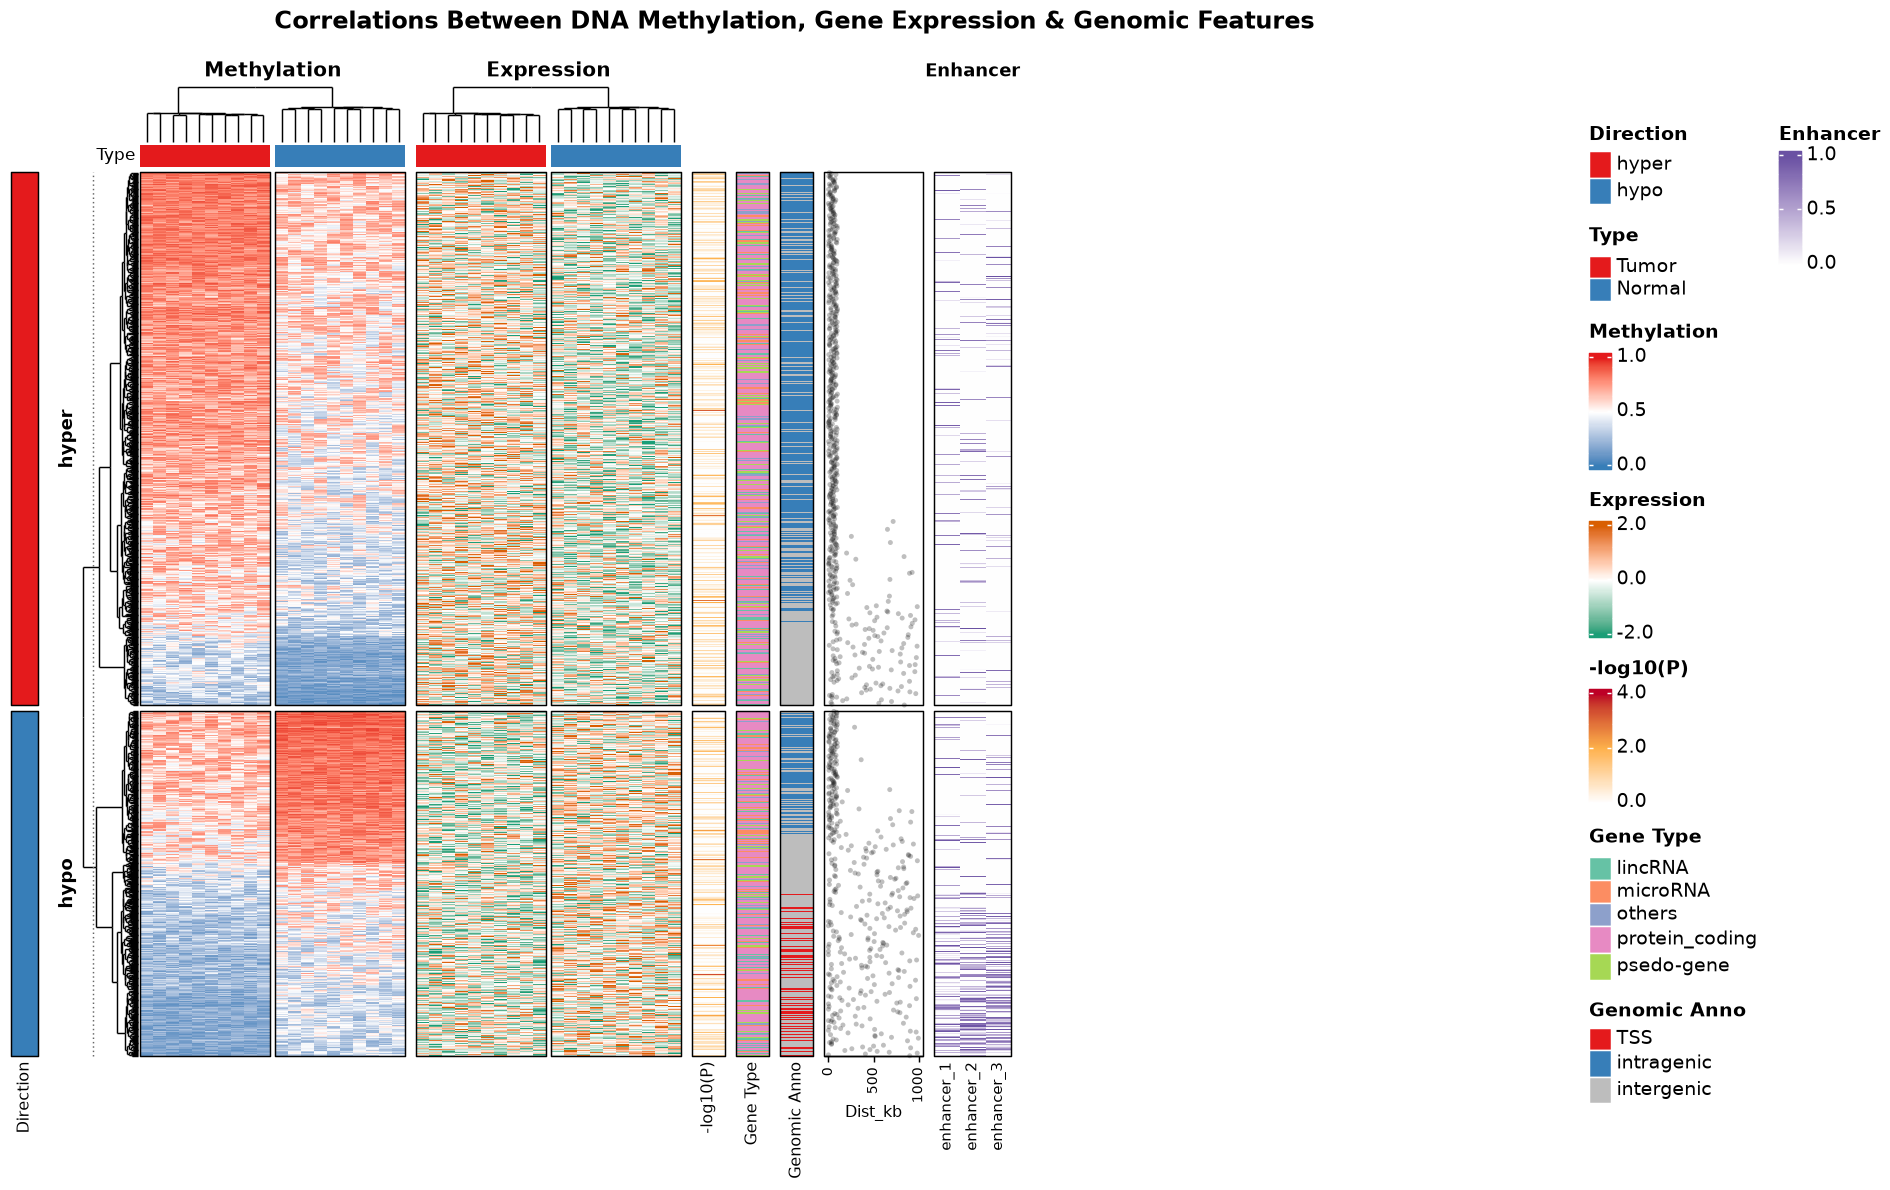
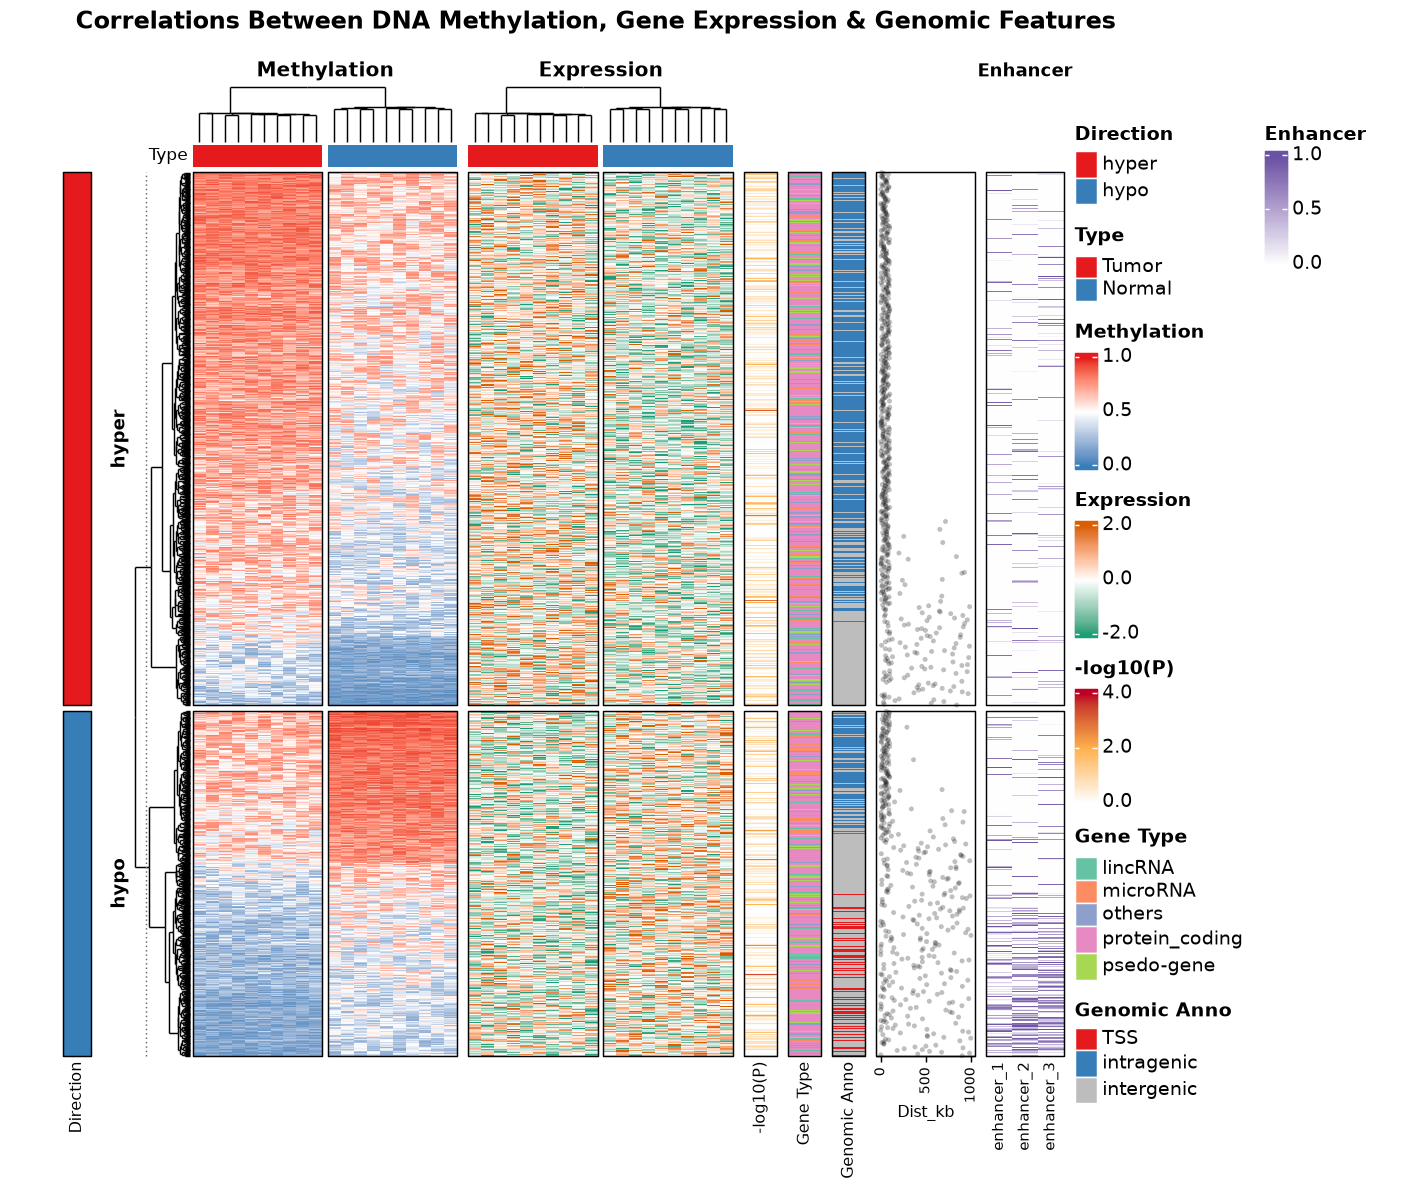
Release v0.2.3: eliminate blank gap before legends in fixed-size HeatmapLists

diff --git a/src/complexheatmap/heatmap_list.py b/src/complexheatmap/heatmap_list.py
@@ -43,6 +43,7 @@ from .heatmap import (
 from .legend import Legends, packLegend
 from .units import (
     Unit,
+    _MM_PER_INCH,
     as_unit,
     check_gp,
     convertHeight,
@@ -975,6 +976,8 @@ class HeatmapList(AdditiveUnit):
                     if ann is not None:
                         e_l = max(e_l, float(ann.extended.to_mm("x")[1]))
                 ext_left = max(0.0, e_l - left_used)
+            elif isinstance(first_item, HeatmapAnnotation):
+                ext_left = float(first_item.extended.to_mm("x")[1])
             last_item = self.ht_list[-1]
             if isinstance(last_item, Heatmap):
                 right_used = sum(convertWidth(last_item.layout["layout_size"][f"{c}_width"], "mm", valueOnly=True) for c in ("row_title_right", "row_dend_right", "row_names_right", "row_anno_right"))
@@ -983,6 +986,8 @@ class HeatmapList(AdditiveUnit):
                     if ann is not None:
                         e_r = max(e_r, float(ann.extended.to_mm("x")[3]))
                 ext_right = max(0.0, e_r - right_used)
+            elif isinstance(last_item, HeatmapAnnotation):
+                ext_right = float(last_item.extended.to_mm("x")[3])
             self.layout["heatmap_list_padding"] = [pad_bot, ext_left, pad_top, ext_right]
 
             # Auto-expand interior ht_gap so extended column-annotation labels/axes do not collide with neighbors
@@ -1106,6 +1111,8 @@ class HeatmapList(AdditiveUnit):
                     if ann is not None:
                         e_t = max(e_t, float(ann.extended.to_mm("x")[2]))
                 pad_top = max(0.0, e_t - top_used)
+            elif isinstance(first_item, HeatmapAnnotation):
+                pad_top = float(first_item.extended.to_mm("x")[2])
             last_item = self.ht_list[-1]
             if isinstance(last_item, Heatmap):
                 bot_used = sum(convertHeight(last_item.layout["layout_size"][f"{c}_height"], "mm", valueOnly=True) for c in ("column_title_bottom", "column_dend_bottom", "column_names_bottom", "column_anno_bottom"))
@@ -1114,6 +1121,8 @@ class HeatmapList(AdditiveUnit):
                     if ann is not None:
                         e_b = max(e_b, float(ann.extended.to_mm("x")[0]))
                 pad_bot = max(0.0, e_b - bot_used)
+            elif isinstance(last_item, HeatmapAnnotation):
+                pad_bot = float(last_item.extended.to_mm("x")[0])
             self.layout["heatmap_list_padding"] = [pad_bot, pad_left, pad_top, pad_right]
 
             # Auto-expand interior ht_gap so extended row-annotation labels/axes do not collide with vertical neighbors
@@ -1194,18 +1203,13 @@ class HeatmapList(AdditiveUnit):
                     item_fixed_w.append(w_mm)
                     fixed_total += w_mm
                 else:
-                    if is_abs_unit(item.heatmap_param["width"]):
-                        w_mm = convertWidth(item.heatmap_param["width"], "mm", valueOnly=True)
-                        item_fixed_w.append(w_mm)
-                        fixed_total += w_mm
-                    elif is_abs_unit(item.matrix_param["width"]):
-                        ws = item.component_widths_mm()
+                    ws = item.component_widths_mm()
+                    if ws[4] is not None:
                         w_mm = sum(x or 0.0 for x in ws)
                         item_fixed_w.append(w_mm)
                         fixed_total += w_mm
                     else:
                         # Flexible body: track fixed non-body components + weight for body
-                        ws = item.component_widths_mm()
                         fixed_non_body = sum(x or 0.0 for x in ws)
                         fixed_total += fixed_non_body
                         item_fixed_w.append(None)
@@ -1237,17 +1241,12 @@ class HeatmapList(AdditiveUnit):
                 item_fixed_h.append(h_mm)
                 fixed_total += h_mm
             else:
-                if is_abs_unit(item.heatmap_param["height"]):
-                    h_mm = convertHeight(item.heatmap_param["height"], "mm", valueOnly=True)
-                    item_fixed_h.append(h_mm)
-                    fixed_total += h_mm
-                elif is_abs_unit(item.matrix_param["height"]):
-                    hs = item.component_heights_mm()
+                hs = item.component_heights_mm()
+                if hs[4] is not None:
                     h_mm = sum(x or 0.0 for x in hs)
                     item_fixed_h.append(h_mm)
                     fixed_total += h_mm
                 else:
-                    hs = item.component_heights_mm()
                     fixed_non_body = sum(x or 0.0 for x in hs)
                     fixed_total += fixed_non_body
                     item_fixed_h.append(None)
@@ -1268,6 +1267,68 @@ class HeatmapList(AdditiveUnit):
                 body_h = rem * (wt / tot_wt) if tot_wt > 0 else 0.0
                 out_h.append(fixed_non_body + body_h)
         return out_h
+
+    def _fixed_heatmap_list_width_mm(self) -> float | None:
+        if not self.ht_list:
+            return None
+        hl_pad = self.layout["heatmap_list_padding"]
+        gaps_mm = self.ht_list_param["ht_gap"].to_mm("x")
+        if self.direction == "horizontal":
+            total_w = 0.0
+            for item in self.ht_list:
+                if isinstance(item, HeatmapAnnotation):
+                    total_w += convertWidth(item.width, "mm", valueOnly=True)
+                else:
+                    ws = item.component_widths_mm()
+                    if ws[4] is None:
+                        return None
+                    total_w += sum(x or 0.0 for x in ws)
+            total_gap = sum(float(gaps_mm[i]) for i in range(max(0, len(self.ht_list) - 1)))
+            return (total_w + total_gap + hl_pad[1] + hl_pad[3]) if (total_w + total_gap) > 0.0 else None
+
+        has_hm = False
+        max_w = 0.0
+        for item in self.ht_list:
+            if isinstance(item, Heatmap):
+                has_hm = True
+                ws = item.component_widths_mm()
+                if ws[4] is None:
+                    return None
+                max_w = max(max_w, sum(x or 0.0 for x in ws))
+            elif is_abs_unit(item.width):
+                max_w = max(max_w, convertWidth(item.width, "mm", valueOnly=True))
+        return (max_w + hl_pad[1] + hl_pad[3]) if (has_hm and max_w > 0.0) else None
+
+    def _fixed_heatmap_list_height_mm(self) -> float | None:
+        if not self.ht_list:
+            return None
+        hl_pad = self.layout["heatmap_list_padding"]
+        gaps_mm = self.ht_list_param["ht_gap"].to_mm("x")
+        if self.direction == "vertical":
+            total_h = 0.0
+            for item in self.ht_list:
+                if isinstance(item, HeatmapAnnotation):
+                    total_h += convertHeight(item.height, "mm", valueOnly=True)
+                else:
+                    hs = item.component_heights_mm()
+                    if hs[4] is None:
+                        return None
+                    total_h += sum(x or 0.0 for x in hs)
+            total_gap = sum(float(gaps_mm[i]) for i in range(max(0, len(self.ht_list) - 1)))
+            return (total_h + total_gap + hl_pad[0] + hl_pad[2]) if (total_h + total_gap) > 0.0 else None
+
+        has_hm = False
+        max_h = 0.0
+        for item in self.ht_list:
+            if isinstance(item, Heatmap):
+                has_hm = True
+                hs = item.component_heights_mm()
+                if hs[4] is None:
+                    return None
+                max_h = max(max_h, sum(x or 0.0 for x in hs))
+            elif is_abs_unit(item.height):
+                max_h = max(max_h, convertHeight(item.height, "mm", valueOnly=True))
+        return (max_h + hl_pad[0] + hl_pad[2]) if (has_hm and max_h > 0.0) else None
 
     def _draw_standalone_annotation(self, anno: HeatmapAnnotation, body_start_mm: float, body_len_mm: float) -> None:
         i_main = self.ht_list_param["main_heatmap"]
@@ -1342,42 +1403,55 @@ class HeatmapList(AdditiveUnit):
         prepared = self.make_layout(padding=padding, page_size_mm=(page_w_mm, page_h_mm), **layout_kwargs)
         prepared._device = dev
 
+        pad_mm = _normalize_padding(prepared.ht_list_param["padding"])  # [bottom, left, top, right]
+        ls = prepared.layout["layout_size"]
+        hl_pad = prepared.layout["heatmap_list_padding"]
+
+        col_fixed = [
+            convertWidth(ls[f"{c}_width"], "mm", valueOnly=True) if c != "heatmap_list" else None
+            for c in HEATMAP_LIST_ROW_COMPONENTS
+        ]
+        row_fixed = [
+            convertHeight(ls[f"{r}_height"], "mm", valueOnly=True) if r != "heatmap_list" else None
+            for r in HEATMAP_LIST_COLUMN_COMPONENTS
+        ]
+        outer_fixed_w = sum(v for v in col_fixed if v is not None)
+        outer_fixed_h = sum(v for v in row_fixed if v is not None)
+        fixed_hl_w = prepared._fixed_heatmap_list_width_mm()
+        fixed_hl_h = prepared._fixed_heatmap_list_height_mm()
+
+        if newpage and ax is None and fig is None:
+            need_w_mm = (fixed_hl_w + outer_fixed_w + pad_mm[1] + pad_mm[3]) if (width is None and fixed_hl_w is not None) else 0.0
+            need_h_mm = (fixed_hl_h + outer_fixed_h + pad_mm[0] + pad_mm[2]) if (height is None and fixed_hl_h is not None) else 0.0
+            if need_w_mm > page_w_mm + 1e-6 or need_h_mm > page_h_mm + 1e-6:
+                dev.resize(max(page_w_mm, need_w_mm) / _MM_PER_INCH, max(page_h_mm, need_h_mm) / _MM_PER_INCH)
+                page_w_mm = dev.width_mm
+                page_h_mm = dev.height_mm
+
         # Fill canvas background
         if background and str(background).lower() != "transparent":
             grid_rect(gp=gpar(fill=background, col=None))
 
-        pad_mm = _normalize_padding(prepared.ht_list_param["padding"])  # [bottom, left, top, right]
         global_w_mm = max(10.0, page_w_mm - pad_mm[1] - pad_mm[3])
         global_h_mm = max(10.0, page_h_mm - pad_mm[0] - pad_mm[2])
+        hl_w_mm = fixed_hl_w if fixed_hl_w is not None else max(10.0, global_w_mm - outer_fixed_w)
+        hl_h_mm = fixed_hl_h if fixed_hl_h is not None else max(10.0, global_h_mm - outer_fixed_h)
+        final_cols = [hl_w_mm if v is None else v for v in col_fixed]
+        final_rows = [hl_h_mm if v is None else v for v in row_fixed]
+        total_cols_w = max(10.0, sum(final_cols))
+        total_rows_h = max(10.0, sum(final_rows))
 
         pushViewport(
             Viewport(
                 name="global",
-                x=unit(pad_mm[1], "mm"),
-                y=unit(pad_mm[0], "mm"),
-                width=unit(global_w_mm, "mm"),
-                height=unit(global_h_mm, "mm"),
+                x=unit(pad_mm[1] + 0.5 * (global_w_mm - total_cols_w), "mm"),
+                y=unit(pad_mm[0] + 0.5 * (global_h_mm - total_rows_h), "mm"),
+                width=unit(total_cols_w, "mm"),
+                height=unit(total_rows_h, "mm"),
                 just=("left", "bottom"),
             )
         )
         try:
-            ls = prepared.layout["layout_size"]
-            hl_pad = prepared.layout["heatmap_list_padding"]
-
-            # 7 outer column widths (left -> right) and 7 outer row heights (top -> bottom)
-            col_fixed = [
-                convertWidth(ls[f"{c}_width"], "mm", valueOnly=True) if c != "heatmap_list" else None
-                for c in HEATMAP_LIST_ROW_COMPONENTS
-            ]
-            row_fixed = [
-                convertHeight(ls[f"{r}_height"], "mm", valueOnly=True) if r != "heatmap_list" else None
-                for r in HEATMAP_LIST_COLUMN_COMPONENTS
-            ]
-
-            hl_w_mm = max(10.0, global_w_mm - sum(v for v in col_fixed if v is not None))
-            hl_h_mm = max(10.0, global_h_mm - sum(v for v in row_fixed if v is not None))
-            final_cols = [hl_w_mm if v is None else v for v in col_fixed]
-            final_rows = [hl_h_mm if v is None else v for v in row_fixed]
 
             x_cols = [0.0] * 7
             cx = 0.0
@@ -1473,10 +1547,17 @@ class HeatmapList(AdditiveUnit):
                 try:
                     ct_gp = prepared.column_title_param["gp"]
                     pad_c = _title_padding_unit(ct_gp)
-                    if ct_side == "top":
-                        grid_text(prepared.column_title[0], x=unit(0.5, "npc"), y=pad_c[0], just="bottom", gp=ct_gp)
+                    ct_w_mm = convertWidth(max_text_width(prepared.column_title[0], gp=ct_gp), "mm", valueOnly=True)
+                    cx_title = x_cols[3] + 0.5 * final_cols[3]
+                    if ct_w_mm <= total_cols_w:
+                        cx_title = min(max(cx_title, 0.5 * ct_w_mm), total_cols_w - 0.5 * ct_w_mm)
                     else:
-                        grid_text(prepared.column_title[0], x=unit(0.5, "npc"), y=unit(1, "npc") - pad_c[0], just="top", gp=ct_gp)
+                        cx_title = 0.5 * total_cols_w
+                    x_title_u = unit(cx_title - x_cols[3], "mm")
+                    if ct_side == "top":
+                        grid_text(prepared.column_title[0], x=x_title_u, y=pad_c[0], just="bottom", gp=ct_gp)
+                    else:
+                        grid_text(prepared.column_title[0], x=x_title_u, y=unit(1, "npc") - pad_c[0], just="top", gp=ct_gp)
                 finally:
                     popViewport()
 

diff --git a/tests/test_v02_improvements_and_visuals.py b/tests/test_v02_improvements_and_visuals.py
@@ -412,3 +412,48 @@ def test_raster_zorder_meth_dataset_oncoprint_subset_and_heatmap3d():
     res_h3 = draw(h3, width=6.0, height=4.5, dpi=80)
     assert len(res_h3._device.ax.collections) > 0
     plt.close("all")
+
+
+def test_fixed_width_heatmap_list_no_blank_gap_before_legend():
+    rng = np.random.default_rng(7)
+    m1 = pd.DataFrame(rng.standard_normal((12, 6)), index=[f"g{i}" for i in range(12)])
+    m2 = pd.DataFrame(rng.standard_normal((12, 6)), index=[f"g{i}" for i in range(12)])
+    h1 = Heatmap(m1, name="H1", width=unit(25, "mm"), cluster_columns=False, show_row_names=False)
+    h2 = Heatmap(m2, name="H2", width=unit(25, "mm"), cluster_columns=False, show_row_names=False)
+    ra = ch.rowAnnotation(
+        mark=ch.anno_mark(at=[1, 6, 10], labels=["GeneA", "GeneB", "GeneC"], link_width=unit(5, "mm")),
+        show_annotation_name=False,
+    )
+    res = draw(h1 + h2 + ra, width=12.0, height=5.0, dpi=100, merge_legends=True)
+    dev = res._device
+
+    seekViewport("global")
+    vp_glob = ch.current_viewport()
+    # Global viewport must be shrunk to fixed list + legend width and centered on 12in (304.8mm) canvas
+    assert vp_glob.w_mm < 220.0
+    assert vp_glob.x0_mm == pytest.approx(0.5 * (dev.w_mm - vp_glob.w_mm), abs=1.0)
+
+    # Gap between trailing anno_mark viewport right edge and leftmost legend title ("H1") must be tight (< 15 mm)
+    seekViewport("annotation_mark_1")
+    vp_mark = ch.current_viewport()
+    mark_right_mm = vp_mark.x0_mm + vp_mark.w_mm
+    dev.fig.canvas.draw()
+    renderer = dev.fig.canvas.get_renderer()
+    inv_trans = dev.ax.transData.inverted()
+    leg_left_candidates = []
+    for txt in dev.ax.texts:
+        if txt.get_text() in ("H1", "H2"):
+            bb = txt.get_window_extent(renderer=renderer)
+            pts_mm = inv_trans.transform([[bb.x0, bb.y0], [bb.x1, bb.y1]])
+            if float(pts_mm[0, 0]) > mark_right_mm:
+                leg_left_candidates.append(float(pts_mm[0, 0]))
+    assert leg_left_candidates
+    assert min(leg_left_candidates) - mark_right_mm < 15.0
+
+    # Calling draw() with width=None on wide fixed-width heatmaps auto-expands the device
+    w1 = Heatmap(m1, name="W1", width=unit(80, "mm"), cluster_columns=False, show_row_names=False)
+    w2 = Heatmap(m2, name="W2", width=unit(80, "mm"), cluster_columns=False, show_row_names=False)
+    w3 = Heatmap(m1, name="W3", width=unit(80, "mm"), cluster_columns=False, show_row_names=False)
+    res_auto = draw(w1 + w2 + w3)
+    assert res_auto._device.w_mm > 240.0
+    plt.close("all")

diff --git a/examples/r_readme_examples.py b/examples/r_readme_examples.py
@@ -322,7 +322,7 @@ def render_r_readme_02_meth_expr_corr() -> None:
         column_title="Correlations Between DNA Methylation, Gene Expression & Genomic Features",
         column_title_gp=ch.gpar(fontsize=12.5, fontface="bold"),
         save=str(OUT_DIR / "r_readme_02_meth_expr_corr.png"),
-        width=13.5,
+        width=10.2,
         height=8.5,
         dpi=140,
     )
@@ -467,7 +467,7 @@ def render_r_readme_03_scrnaseq_heterogeneity() -> None:
         column_title="Single-Cell RNA-Seq Heterogeneity, Gene Sets & Correlation Structure",
         column_title_gp=ch.gpar(fontsize=12.5, fontface="bold"),
         save=str(OUT_DIR / "r_readme_03_scrnaseq_heterogeneity.png"),
-        width=13.0,
+        width=9.2,
         height=7.8,
         dpi=140,
     )

diff --git a/src/complexheatmap/heatmap.py b/src/complexheatmap/heatmap.py
@@ -793,7 +793,7 @@ class Heatmap(AdditiveUnit):
             w_u = unit(1.0, "npc")
             hw_u = as_unit(heatmap_width, "mm")
         else:
-            w_u = unit(1.0, "npc")
+            w_u = unit(0.0, "mm") if nc == 0 else unit(1.0, "npc")
             hw_u = unit(1.0, "npc")
 
         if height is not None:
@@ -803,7 +803,7 @@ class Heatmap(AdditiveUnit):
             h_u = unit(1.0, "npc")
             hh_u = as_unit(heatmap_height, "mm")
         else:
-            h_u = unit(1.0, "npc")
+            h_u = unit(0.0, "mm") if nr == 0 else unit(1.0, "npc")
             hh_u = unit(1.0, "npc")
 
         # Validate body dims for clusterability

diff --git a/src/complexheatmap/__init__.py b/src/complexheatmap/__init__.py
@@ -2,7 +2,7 @@
 
 from __future__ import annotations
 
-__version__ = "0.2.2"
+__version__ = "0.2.3"
 __upstream_r_version__ = "2.25.3"
 
 # Core options, base infix operators, units & graphics

diff --git a/README.md b/README.md
@@ -257,7 +257,7 @@ ch.Heatmap3D(mat_3d, name="Intensity", column_title="3D Isometric Heatmap (Heatm
 - **Annotations (`annotations.py`, `anno_funcs.py`)**: All 21 `anno_*` (`anno_simple`, `anno_empty`, `anno_points`, `anno_lines`, `anno_barplot`, `anno_boxplot`, `anno_histogram`, `anno_density`, `anno_joyplot`, `anno_horizon`, `anno_text`, `anno_numeric`, `anno_mark`, `anno_zoom`, `anno_link`, `anno_block`, `anno_summary`, `anno_image`, `anno_customize`, `anno_textbox`, `anno_oncoprint_barplot`) + 6 `row_anno_*` aliases, `HeatmapAnnotation`, `rowAnnotation`, `columnAnnotation`, `SingleAnnotation`, `AnnotationFunction`, `attach_annotation`.
 - **Multi-Heatmap Lists & Legends (`heatmap.py`, `heatmap_list.py`, `legend.py`, `decorate.py`)**: Horizontal (`+`) and vertical (`%v%` / `/`) concatenation, `auto_adjust`, `main_heatmap` alignment, `Legend`/`packLegend` discrete + continuous + unequal-break legends, legend deduplication/`c_ColorMapping`, all 11 `decorate_*` viewport decorators, and slice/subsetting indexing (`ht[i, j]`, `ht_list[i, j]`).
 - **High-Level Genomics & Plots (`oncoprint.py`, `upset.py`, `density.py`, `three_d.py`, `genomic.py`, `translate.py`)**: `oncoPrint` (with memoSort & alteration polygons), `make_comb_mat` / `UpSet` (`distinct`, `intersect`, `union`, genomic intervals, `t(m)`), `densityHeatmap`, `frequencyHeatmap`, `ks_dist`, `bar3D`, `Heatmap3D`, `IRanges`/`GRanges`/`bin_genome`/`normalize_genomic_signals_to_bins`, and drop-in translations `pheatmap`, `heatmap`, `heatmap_2`, `compare_*`.
-- **Examples & Verification**: Complete documentation in the **[ComplexHeatmap-py Complete Reference Book](https://zhanxw.github.io/ComplexHeatmap-reference-py/book/)**, upstream flagship README replications ([examples/r_readme_examples.py](https://github.com/zhanxw/ComplexHeatmap-py/blob/main/examples/r_readme_examples.py)), ports of all **102 executable `.Rd` examples** ([examples/run_all_rd_examples.py](https://github.com/zhanxw/ComplexHeatmap-py/blob/main/examples/run_all_rd_examples.py)), publication gallery ([examples/showcase_gallery.py](https://github.com/zhanxw/ComplexHeatmap-py/blob/main/examples/showcase_gallery.py)), R-to-Python guide ([examples/r_to_python_guide.md](https://github.com/zhanxw/ComplexHeatmap-py/blob/main/examples/r_to_python_guide.md)), and `pytest` suite (`136 passed`).
+- **Examples & Verification**: Complete documentation in the **[ComplexHeatmap-py Complete Reference Book](https://zhanxw.github.io/ComplexHeatmap-reference-py/book/)**, upstream flagship README replications ([examples/r_readme_examples.py](https://github.com/zhanxw/ComplexHeatmap-py/blob/main/examples/r_readme_examples.py)), ports of all **102 executable `.Rd` examples** ([examples/run_all_rd_examples.py](https://github.com/zhanxw/ComplexHeatmap-py/blob/main/examples/run_all_rd_examples.py)), publication gallery ([examples/showcase_gallery.py](https://github.com/zhanxw/ComplexHeatmap-py/blob/main/examples/showcase_gallery.py)), R-to-Python guide ([examples/r_to_python_guide.md](https://github.com/zhanxw/ComplexHeatmap-py/blob/main/examples/r_to_python_guide.md)), and `pytest` suite (`137 passed`).
 
 ## License & Attribution
 
